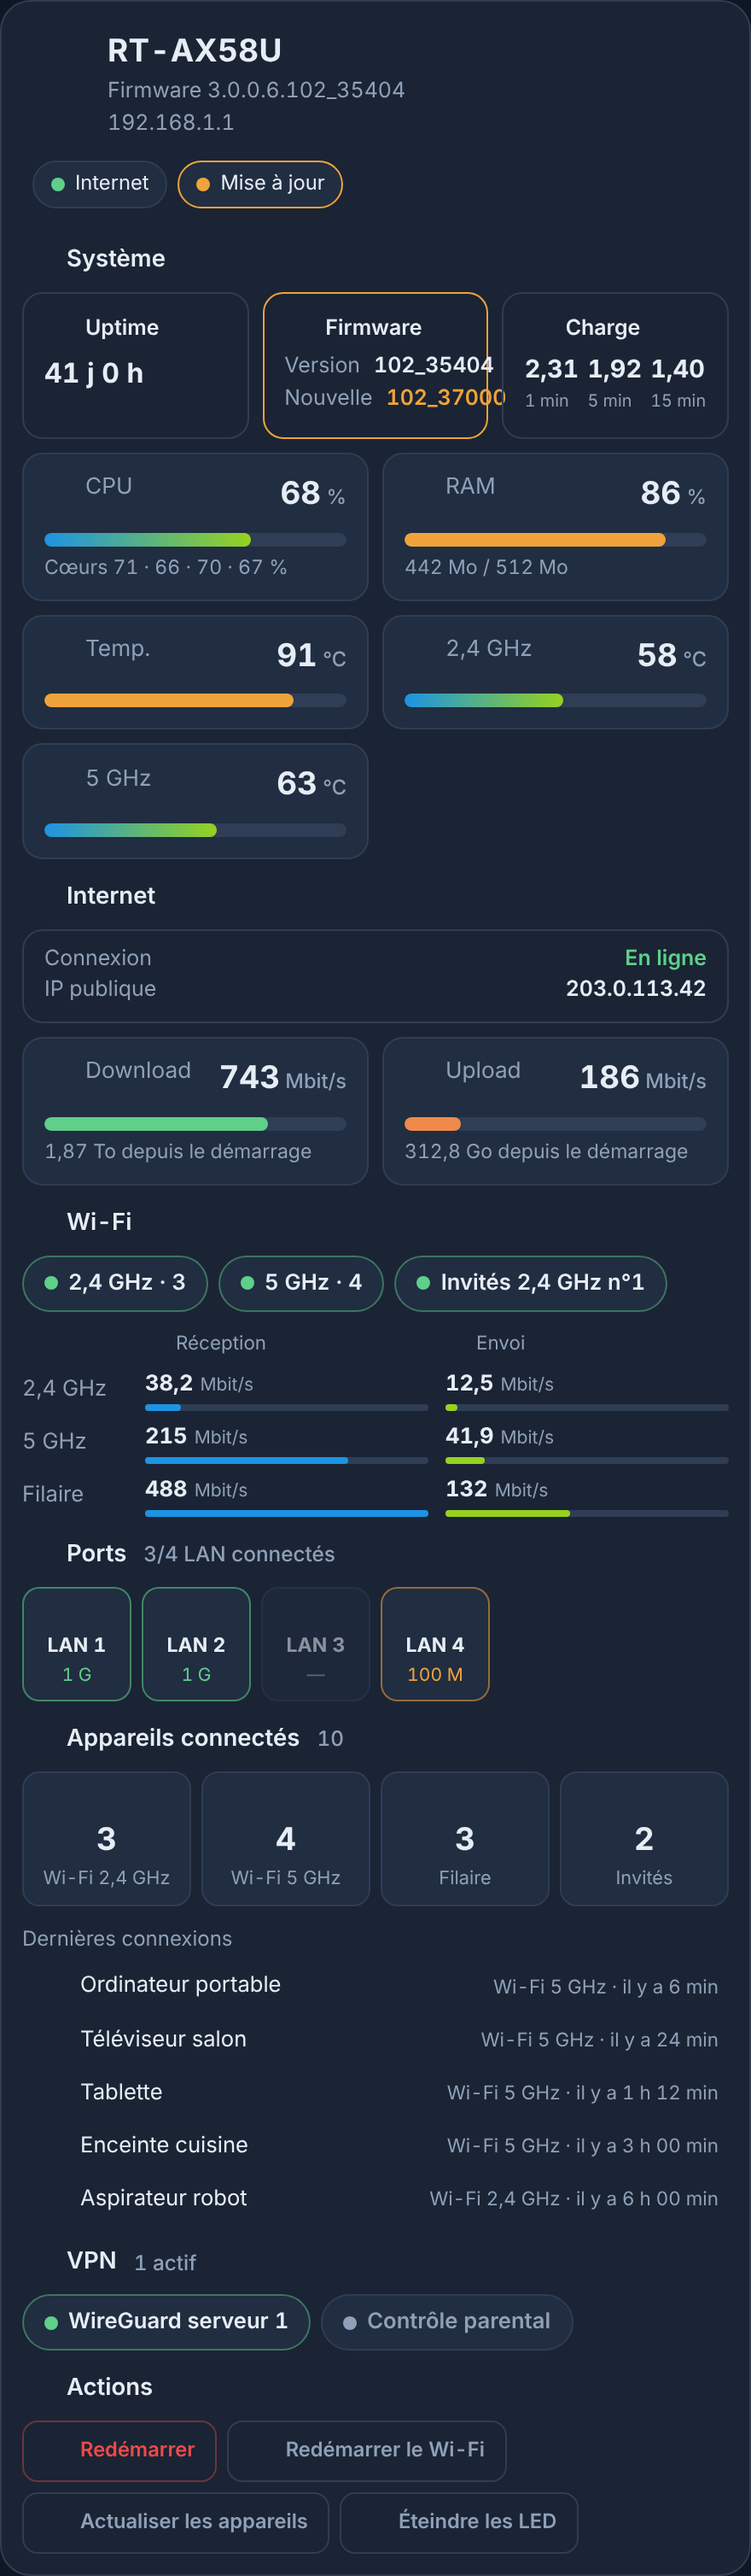
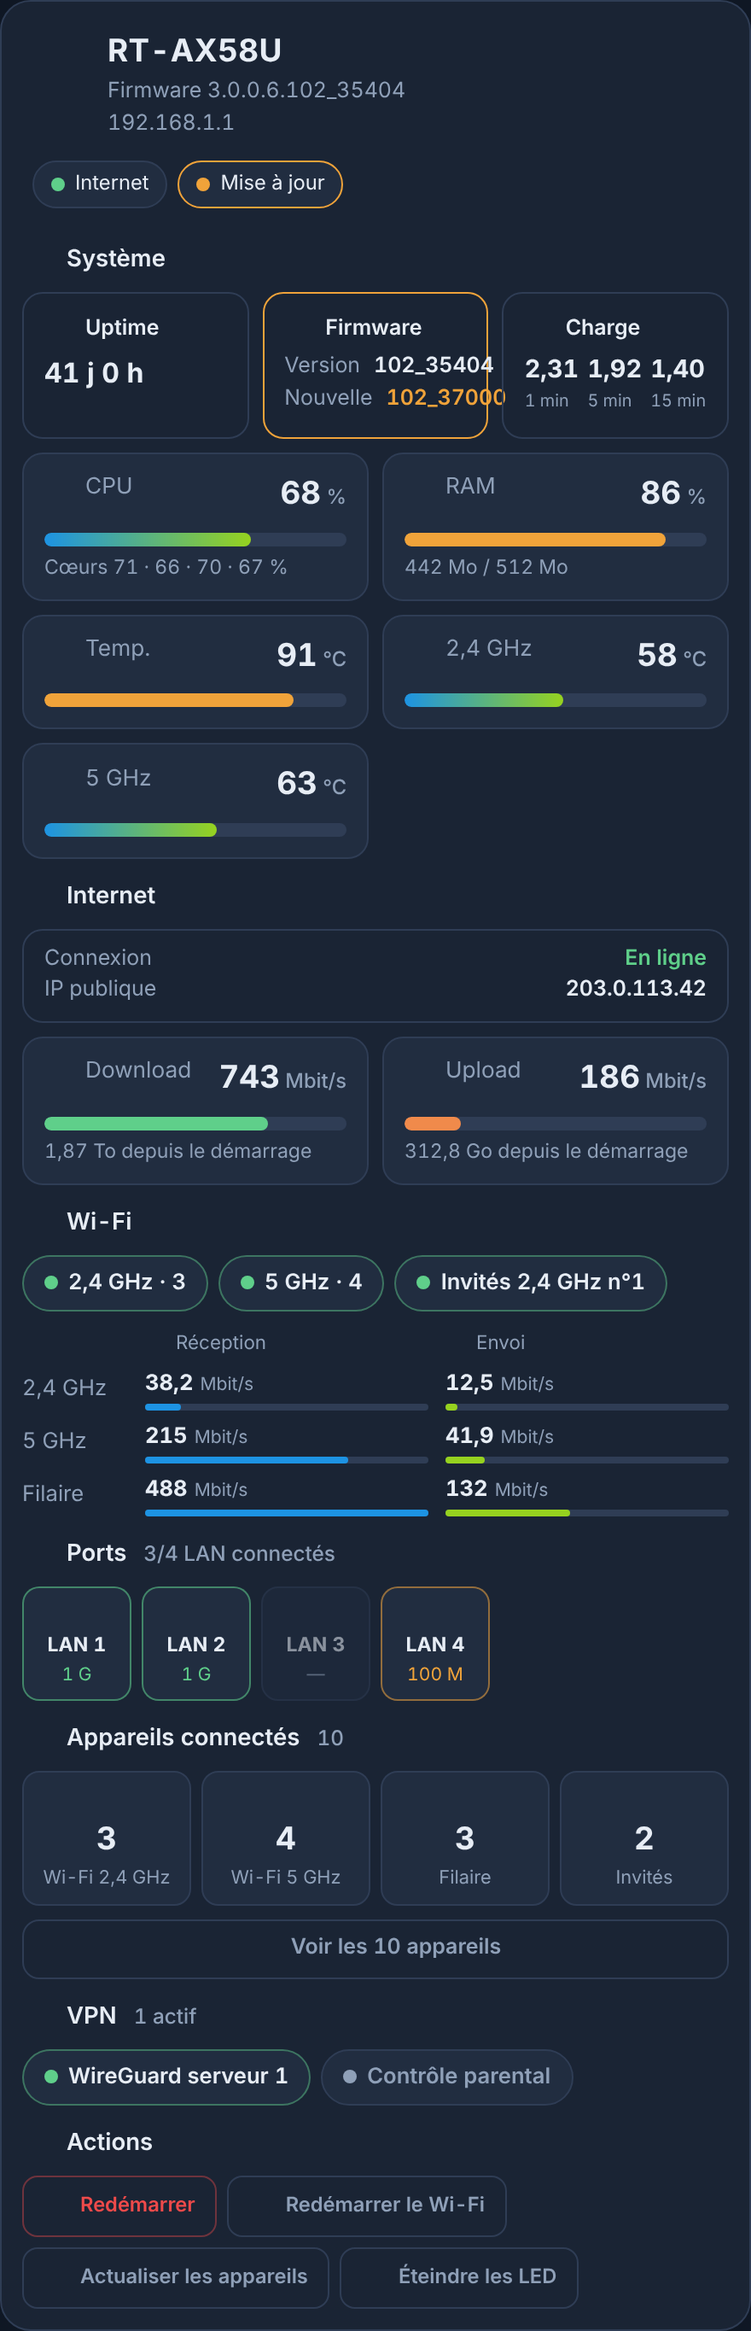
fix(web): appareils connectés repliés par défaut, carte Routeur ASUS (0.10.0-beta.3)
Les dernières connexions ne s'affichent plus d'office : « Voir les
appareils » déplie les dernières connexions et la liste complète,
« Réduire » replie le tout.

Claude-Session: https://claude.ai/code/session_01SRKBBjDQfQhyTgJMcHgPqQ

diff --git a/serveur-ha-card.js b/serveur-ha-card.js
@@ -19,7 +19,7 @@
  */
 
 (() => {
-const CARD_VERSION = "0.10.0-beta.2";
+const CARD_VERSION = "0.10.0-beta.3";
 
 /* ------------------------------------------------------------- affichage */
 
@@ -2351,7 +2351,7 @@ class ServeurHaAsusCard extends HTMLElement {
           return `<div class="asus-dev" data-entity="${esc(r.latest)}"><ha-icon icon="${/wired/.test(d?.connection_type || "") ? "mdi:ethernet" : "mdi:wifi"}"></ha-icon><span>${esc(name)}</span><small>${esc([ASUS_LINK[d?.connection_type] || null, when ? `il y a ${when}` : null].filter(Boolean).join(" · "))}</small></div>`;
         });
         // liste complète, dépliée par « Voir tous » ou par une tuile : par type de connexion, puis par nom
-        const open = this._devs && devices.length ? this._devs : null;
+        const open = this._devs && (devices.length || latest.length) ? this._devs : null;
         const ORDER = { "2ghz": 1, "5ghz": 2, "5ghz2": 3, "6ghz": 4, wired: 5 };
         const label = (d) => String(d?.name || d?.ip || d?.mac || "Appareil").replace(/^\[\d+\]\s*/, "");
         const shown = !open ? [] : devices
@@ -2362,13 +2362,14 @@ class ServeurHaAsusCard extends HTMLElement {
           return `<div class="asus-dev"><ha-icon icon="${/wired/.test(d?.connection_type || "") ? "mdi:ethernet" : "mdi:wifi"}"></ha-icon><div class="asus-dn"><span>${esc(label(d))}</span><small>${esc([d?.ip || null, ASUS_LINK[d?.connection_type] || null, when ? `depuis ${when}` : null].filter(Boolean).join(" · "))}</small></div></div>`;
         });
         const openName = { all: "Tous les appareils", "2ghz": "Wi-Fi 2,4 GHz", "5ghz": "Wi-Fi 5 GHz", wired: "Filaire", guest: "Invités" }[open];
-        const more = devices.length
-          ? `<button class="asus-more ${open ? "on" : ""}" data-devs="${open || "all"}"><ha-icon icon="${open ? "mdi:chevron-up" : "mdi:chevron-down"}"></ha-icon>${open ? "Réduire" : `Voir les ${fmt(devices.length, 0)} appareils`}</button>`
+        // tout est replié par défaut : le bouton déplie les dernières connexions et la liste complète
+        const more = devices.length || latest.length
+          ? `<button class="asus-more ${open ? "on" : ""}" data-devs="${open || "all"}"><ha-icon icon="${open ? "mdi:chevron-up" : "mdi:chevron-down"}"></ha-icon>${open ? "Réduire" : devices.length ? `Voir les ${fmt(devices.length, 0)} appareils` : "Voir les dernières connexions"}</button>`
           : "";
         clients = sec("mdi:devices", `Appareils connectés <small class="pve-n">${total !== null ? fmt(total, 0) : ""}</small>`,
           `${tiles.length ? `<div class="asus-counts">${tiles.map(([lbl, v, icon, key]) => `<div class="${open === key ? "on" : ""}" ${devices.length && v ? `data-devs="${key}" title="Voir les appareils : ${lbl}"` : ""}><ha-icon icon="${icon}"></ha-icon><b>${v === null ? "—" : fmt(v, 0)}</b><small>${lbl}</small></div>`).join("")}</div>` : ""}
-          ${open ? `<div class="asus-sub">${openName} <b>${fmt(shown.length, 0)}</b></div><div class="asus-devs asus-all">${full.join("") || `<div class="asus-note">Aucun appareil</div>`}</div>`
-            : latest.length ? `<div class="asus-sub">Dernières connexions</div><div class="asus-devs">${latest.join("")}</div>` : ""}
+          ${open === "all" && latest.length ? `<div class="asus-sub">Dernières connexions</div><div class="asus-devs">${latest.join("")}</div>` : ""}
+          ${open ? `<div class="asus-sub">${openName} <b>${fmt(shown.length, 0)}</b></div><div class="asus-devs asus-all">${full.join("") || `<div class="asus-note">Aucun appareil</div>`}</div>` : ""}
           ${more}`);
       }
 

diff --git a/README.md b/README.md
@@ -335,7 +335,7 @@ Tout est ensuite détecté :
 - **Internet** : connexion, IP publique, débits download et upload, volume échangé depuis le démarrage du routeur.
 - **Wi-Fi** : bandes 2,4 et 5 GHz (activées ou non, nombre d'appareils, SSID au survol), réseaux invités actifs, débits en réception et en envoi par bande et en filaire. Seul le SSID est lu : le mot de passe du Wi-Fi, que l'intégration expose, n'est jamais affiché.
 - **Ports** : port WAN et ports LAN, connectés à 1 Gbit/s (vert), 100 Mbit/s (orange) ou déconnectés.
-- **Appareils connectés** : nombre total, en Wi-Fi 2,4 GHz, 5 GHz, filaire et sur le réseau invités, et les dernières connexions. **Voir les appareils** déplie la liste complète (nom, adresse IP, connexion, depuis quand) ; un clic sur une tuile (Wi-Fi 2,4 GHz, 5 GHz, filaire) n'affiche que ces appareils, un second clic replie la liste.
+- **Appareils connectés** : nombre total, en Wi-Fi 2,4 GHz, 5 GHz, filaire et sur le réseau invités. La liste est repliée : **Voir les appareils** déplie les dernières connexions et la liste complète (nom, adresse IP, connexion, depuis quand), **Réduire** la replie. Un clic sur une tuile (Wi-Fi 2,4 GHz, 5 GHz, filaire) n'affiche que ces appareils.
 - **VPN** : clients et serveurs OpenVPN ou WireGuard actifs, contrôle parental.
 - **Actions** : **Redémarrer**, **Redémarrer le Wi-Fi**, **Actualiser les appareils**, allumer ou éteindre les **LED**. Chaque bouton demande **un second clic dans les 5 secondes**.
 
